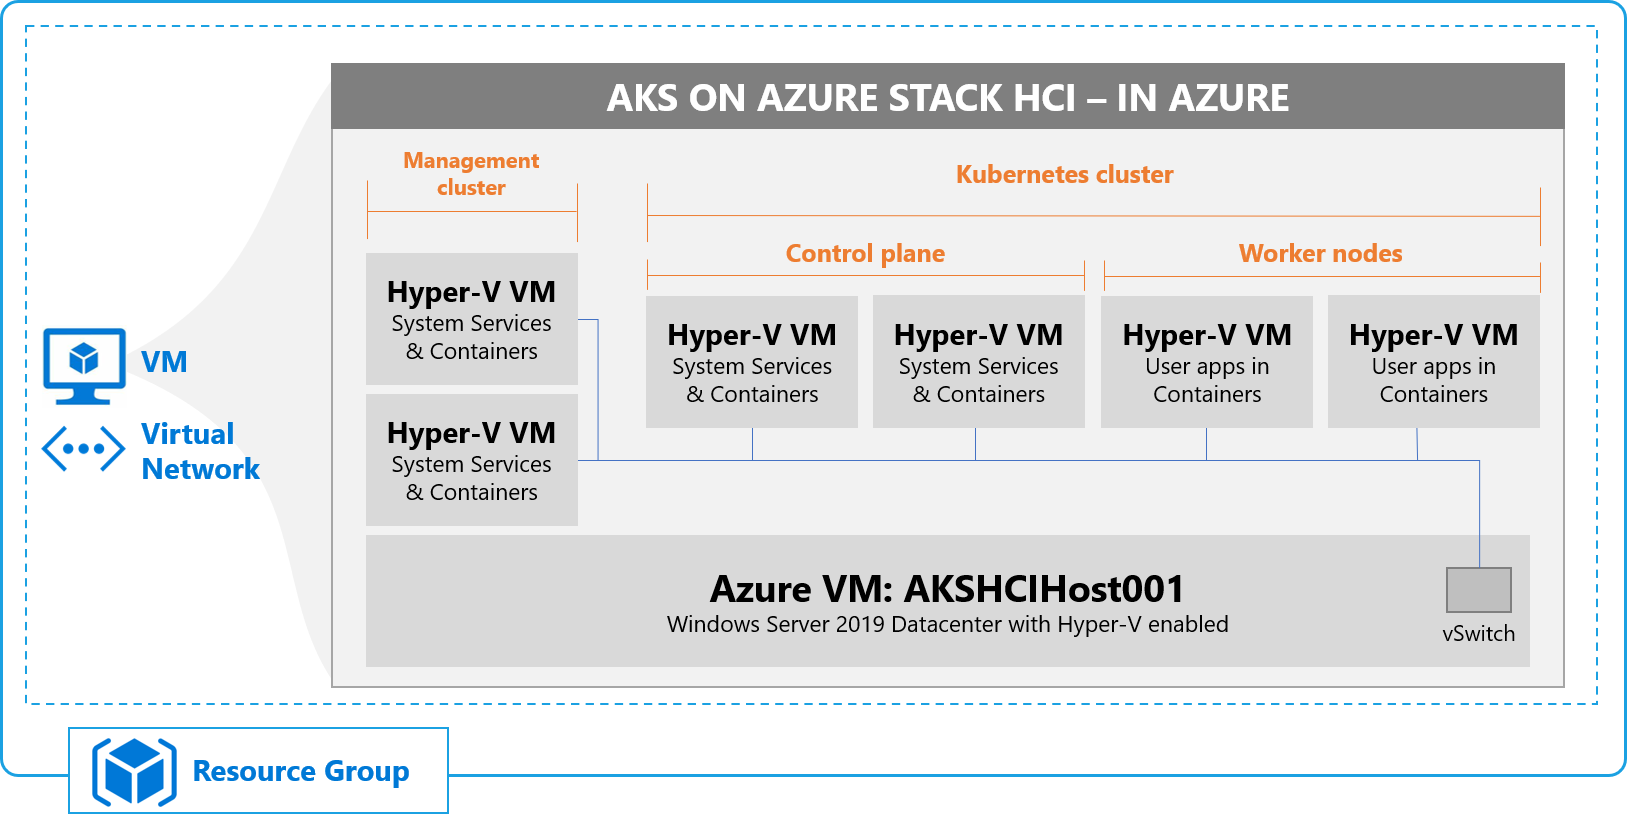
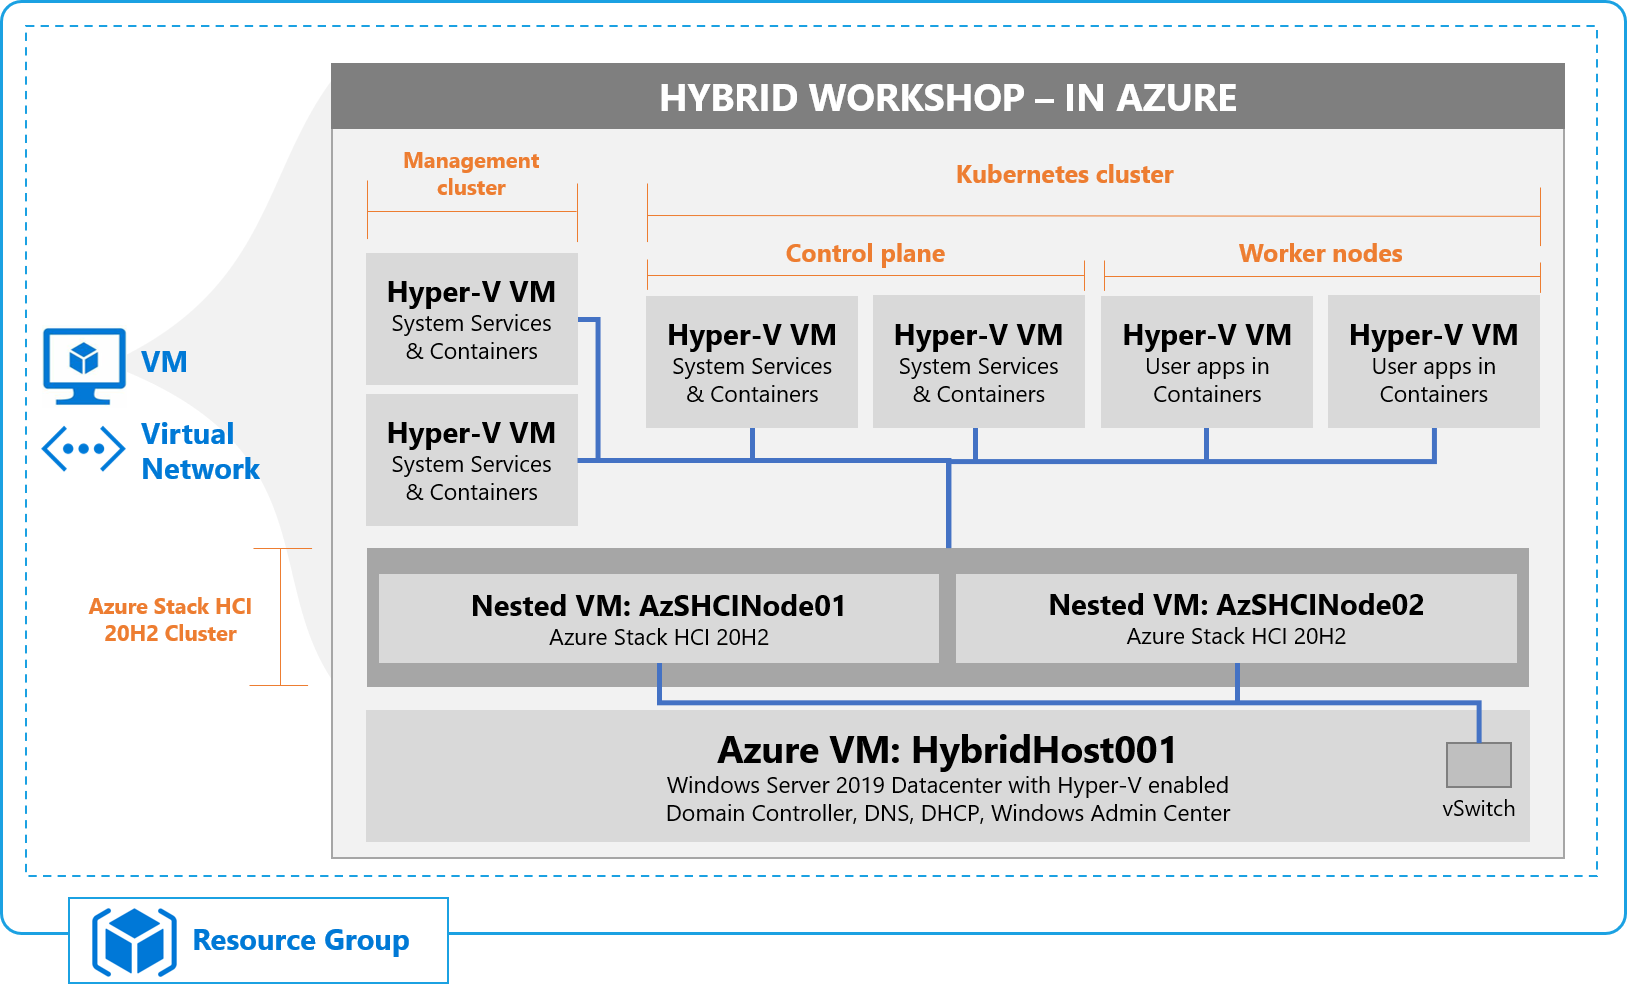
Updated arch graphic

diff --git a/steps/1_DeployAzureVM.md b/steps/1_DeployAzureVM.md
@@ -6,7 +6,7 @@ With the introduction of [nested virtualization support in Azure](https://azure.
 
 In this guide, you'll walk through the steps to stand up an Azure Stack HCI 20H2 and AKS on Azure Stack HCI infrastructure. At a high level, this will consist of the following:
 
-* Deploy an Azure VM, running Windows Server 2019, to act as your main Hyper-V host - this will be automatically configured with the relevant roles and features needed for your workshop, download all required binaries, and deploy 2 Azure Stack HCI 20H2 nodes.
+* Deploy an Azure VM, running Windows Server 2019, to act as your main Hyper-V host - this will be automatically configured with the relevant roles and features needed for your workshop. It will also download all required binaries, and deploy 2 Azure Stack HCI 20H2 nodes, reday for clustering.
 * Deploy the AKS on Azure Stack HCI management cluster
 * Deploy the AKS on Azure Stack HCI target clusters, for running workloads
 
